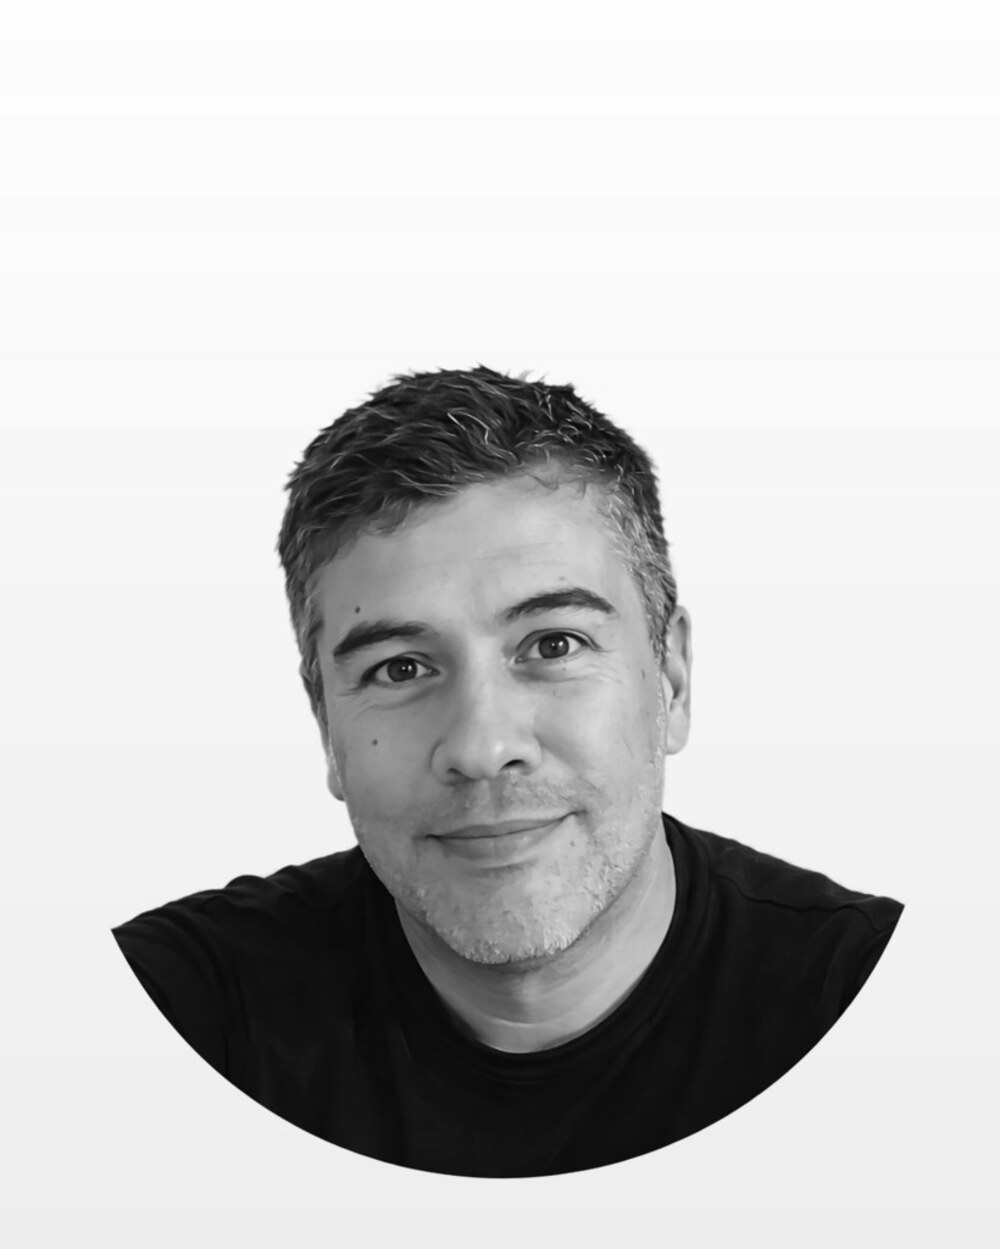
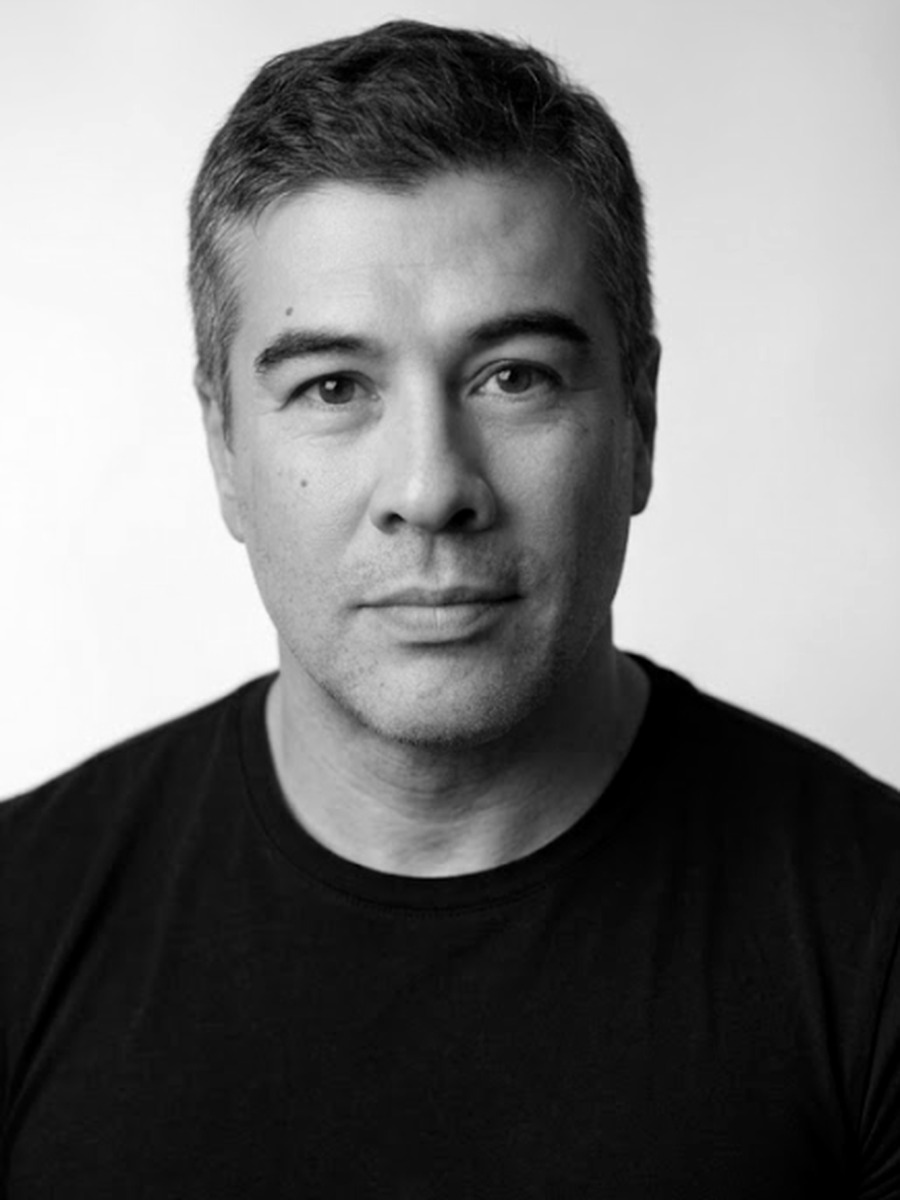
feat(design-v2): apply copy v2 (AI strategy mentor), real photos, Cal link
- Positioning: "AI strategy mentor"; nav = Workshops/Speaking/Mentoring/About
- Hero overline + subhead rewritten; Shift reframed to tools-vs-judgment
- Ways reordered 01 Workshops / 02 Speaking / 03 Mentoring + format micro-lines
- Proof: stage editorial split (caption + real speaking photo) + 3 named testimonials
- About: fixed "teams here" leftover, strategy-mentor framing
- Real photos: pro headshot (hero + b&w about), real-face speaking shot (stage)
- BOOK_LINK set to real Cal URL; index.html title/meta/OG updated

Spanish toggle + Talks block are pending follow-ups (English ships first).

diff --git a/src/App.jsx b/src/App.jsx
@@ -5,8 +5,8 @@ import { ArrowUpRight } from 'lucide-react';
 
 gsap.registerPlugin(ScrollTrigger);
 
-// Single source of truth for the booking link. Swap with the real Cal.com URL before merge.
-const BOOK_LINK = 'https://cal.com/REPLACE_ME';
+// Single source of truth for the booking link.
+const BOOK_LINK = 'https://cal.com/carlos-acuna/30min';
 const LINKEDIN = 'https://www.linkedin.com/in/carlosacunau/';
 const EMAIL = 'carlos@fibalabs.com';
 
@@ -88,8 +88,9 @@ const Navbar = () => {
           <img src="/logo.png" alt="Fiba Labs" className="h-12 w-auto" />
         </a>
         <div className="hidden md:flex items-center gap-10 text-sm text-muted">
-          <a href="#work" className="hover:text-text transition-colors">Ways to work</a>
-          <a href="#method" className="hover:text-text transition-colors">How I work</a>
+          <a href="#work" className="hover:text-text transition-colors">Workshops</a>
+          <a href="#proof" className="hover:text-text transition-colors">Speaking</a>
+          <a href="#work" className="hover:text-text transition-colors">Mentoring</a>
           <a href="#about" className="hover:text-text transition-colors">About</a>
         </div>
         <a href={BOOK_LINK} target="_blank" rel="noopener noreferrer" className="btn-magnetic px-5 py-2.5 rounded-full bg-accent text-background text-sm">
@@ -118,7 +119,7 @@ const Hero = () => {
         <div className="lg:col-span-7 space-y-8">
           <div className="hero-elem overline flex items-center gap-3">
             <span className="w-8 h-px bg-accent"></span>
-            AI mentoring for executives &amp; their teams
+            AI strategy mentor · Workshops · Speaking
           </div>
           <h1 className="display-serif text-text text-5xl md:text-7xl lg:text-[5.5rem]">
             <span className="hero-elem block">I make executives</span>
@@ -126,7 +127,7 @@ const Hero = () => {
             <span className="hero-elem block italic text-accent">AI-fluent.</span>
           </h1>
           <p className="hero-elem text-lg text-muted max-w-md leading-relaxed font-sans">
-            Your judgment is the part AI can't replace. I help leaders and their teams put it to work with AI, so the output stays yours and the work gets faster. Twenty-two years in enterprise, no hype.
+            Custom workshops, keynotes, and private mentoring, all built on your team's real work. Twenty-two years inside enterprise. No hype, no generic curriculum.
           </p>
           <div className="hero-elem flex flex-wrap items-center gap-6 pt-2">
             <a href={BOOK_LINK} target="_blank" rel="noopener noreferrer" className="btn-magnetic px-8 py-4 rounded-full bg-accent text-background text-base">
@@ -158,12 +159,12 @@ const Shift = () => {
   return (
     <section ref={ref} id="shift" className="px-6 md:px-12 py-24 md:py-32 bg-surface">
       <div className="max-w-4xl mx-auto text-center space-y-8">
-        <p className="reveal overline">The problem with most AI training</p>
+        <p className="reveal overline">Why another AI training won't fix it</p>
         <h2 className="reveal display-serif text-3xl md:text-5xl text-text leading-tight">
-          It teaches tools and prompts. A month later, <span className="italic text-accent">nobody uses any of it.</span>
+          Everyone bought the tools. Almost nobody <span className="italic text-accent">changed how they work.</span>
         </h2>
         <p className="reveal text-lg text-muted max-w-2xl mx-auto leading-relaxed font-sans">
-          I start from the work your team already does, not a generic curriculum. Everyone leaves with something they built, and the judgment to keep using it.
+          Generic training teaches prompts and demos, and a month later nobody uses any of it. The gap was never the tool. It's judgment: knowing what to hand to AI, what to keep, and how to tell good output from plausible output. I start from the work your team already does, and everyone leaves with something they built.
         </p>
       </div>
     </section>
@@ -175,20 +176,23 @@ const ways = [
   {
     num: '01',
     label: 'Workshops',
-    title: 'Your team leaves with something they built.',
-    desc: "Hands-on sessions for a team or a leadership group. We take a process you run every week and walk out with an assistant or workflow that handles it. Not slides about AI, the actual thing, working.",
+    format: 'Half-day to multi-week · your team, your cases · in person or remote',
+    title: "Built on your team's real work, not a curriculum.",
+    desc: "Custom mentoring workshops for a team or a leadership group. We take a process you run every week and walk out with an assistant or a workflow that handles it. Not slides about AI: the actual thing, working, in your company's vocabulary. Formats range from a half-day intensive to a multi-week program.",
   },
   {
     num: '02',
-    label: '1:1 Mentoring',
-    title: 'For the leader who wants to get genuinely good.',
-    desc: "A few weeks on your real cases, not a curriculum. We work them until the output stops sounding like AI and starts sounding like you. You leave with your own assistants built and the judgment to keep going.",
+    label: 'Speaking',
+    format: 'Keynotes · conference workshops · leadership offsites',
+    title: 'A talk the room is still using a month later.',
+    desc: "Keynotes and hands-on conference sessions, in person or remote, in English or Spanish. I don't do tool demos or hype tours. I give leaders a way to think about AI they can defend in their next board conversation, and when the format allows, everyone builds something with their own case before leaving the room.",
   },
   {
     num: '03',
-    label: 'Speaking',
-    title: 'A talk where the room actually uses it.',
-    desc: "Keynotes and live workshops for events and offsites, in person or remote. Your audience doesn't just hear about AI. Each person makes something with their own case before they leave.",
+    label: 'Private mentoring',
+    format: '1:1 · a few weeks · your real cases',
+    title: 'For the leader who wants to get genuinely good.',
+    desc: "A few weeks working your real cases, not a curriculum. We work them until the output stops sounding like AI and starts sounding like you. You leave with your own assistants built and the judgment to keep going without me.",
   },
 ];
 
@@ -211,7 +215,8 @@ const Ways = () => {
                 <span className="overline pt-1">{w.label}</span>
               </div>
               <div className="md:col-span-9">
-                <h3 className="font-drama text-2xl md:text-3xl text-text mb-3 leading-snug">{w.title}</h3>
+                <h3 className="font-drama text-2xl md:text-3xl text-text mb-2 leading-snug">{w.title}</h3>
+                <p className="font-mono text-xs text-accent/80 mb-3 tracking-wide">{w.format}</p>
                 <p className="text-muted leading-relaxed font-sans max-w-2xl">{w.desc}</p>
               </div>
             </div>
@@ -274,25 +279,54 @@ const Method = () => {
   );
 };
 
-// --- PROOF (full-bleed stage photo + floating logos) ---
+// --- PROOF (stage editorial split + testimonials + logos) ---
+const quotes = [
+  {
+    text: "Carlos built us an order system that just runs. What used to be manual every day now handles itself, and we get a clean summary without lifting a finger.",
+    attr: 'Onyx Armor · custom body armor',
+  },
+  {
+    text: "We greenlit it on the first call, no hesitation. Carlos gave us an outbound engine we actually own, not a black box we'd depend on him for.",
+    attr: 'Nadav Dabas · CEO, Dots Eco',
+  },
+  {
+    text: "For the first time the AI actually read my real drawings instead of inventing something off-scale. Carlos taught us to plug it into the tools we already use every day.",
+    attr: 'Stefano Bedín · BMAA architecture studio',
+  },
+];
+
 const Proof = () => {
   const ref = useReveal();
   const logos = ['IBM', 'Oracle', 'Red Hat', 'Trellix', 'Vertiv', 'Remote.com'];
   return (
     <section ref={ref} id="proof" className="py-24 md:py-32">
-      {/* Stage photo band */}
+      {/* Stage editorial split: caption left, real speaking photo right */}
       <div className="reveal max-w-6xl mx-auto px-6 md:px-12">
-        <div className="relative rounded-2xl overflow-hidden aspect-[21/9]">
-          <Photo
-            src="/stage.jpg"
-            alt="Carlos Acuña speaking"
-            label="[ on-stage speaking photo ]"
-            className="absolute inset-0 rounded-2xl border-0"
-          />
-          <div className="absolute bottom-0 left-0 right-0 p-6 md:p-8 bg-gradient-to-t from-black/60 to-transparent z-10">
-            <p className="text-white font-sans font-medium">On stage · corporate events and leadership offsites</p>
+        <div className="rounded-2xl border border-line bg-gradient-to-br from-background to-surface overflow-hidden flex flex-col md:flex-row items-center gap-8 md:gap-4 p-8 md:p-12">
+          <div className="flex-1 space-y-4 text-center md:text-left">
+            <p className="overline">On stage</p>
+            <h3 className="display-serif text-2xl md:text-4xl text-text leading-tight">Keynotes and hands-on workshops that a room keeps using.</h3>
+            <p className="text-muted font-sans leading-relaxed max-w-md mx-auto md:mx-0">Corporate events and leadership offsites, in person or remote, in English or Spanish.</p>
+          </div>
+          <div className="w-2/3 max-w-[240px] md:w-auto md:h-[340px] shrink-0">
+            <Photo
+              src="/stage.jpg"
+              alt="Carlos Acuña speaking"
+              label="[ speaking photo ]"
+              className="rounded-2xl aspect-[3/5] md:h-full md:aspect-auto shadow-xl"
+            />
           </div>
         </div>
+      </div>
+
+      {/* Testimonials */}
+      <div className="reveal max-w-6xl mx-auto px-6 md:px-12 mt-12 grid grid-cols-1 md:grid-cols-3 gap-6">
+        {quotes.map((q) => (
+          <figure key={q.attr} className="border border-line rounded-2xl p-7 bg-surface flex flex-col justify-between">
+            <blockquote className="text-text font-sans leading-relaxed text-[15px]">"{q.text}"</blockquote>
+            <figcaption className="overline mt-6 not-italic">{q.attr}</figcaption>
+          </figure>
+        ))}
       </div>
 
       {/* Logos */}
@@ -326,13 +360,13 @@ const About = () => {
         <div className="lg:col-span-7 space-y-6">
           <p className="reveal overline">About</p>
           <blockquote className="reveal display-serif text-3xl md:text-4xl text-text border-l-2 border-accent pl-6 leading-tight">
-            Twenty-two years inside enterprise. Now I help leaders use the next wave of it.
+            Twenty-two years inside enterprise. Now I mentor the leaders navigating what comes next.
           </blockquote>
           <p className="reveal text-muted leading-relaxed font-sans">
             I'm Carlos Acuña, founder of Fiba Labs. Two decades across IBM, Oracle, Red Hat, Trellix, Vertiv and Remote.com, in sales, channel and customer success throughout Latin America. Dual MBA, engineering background, and a long habit of being in the room where the decision gets made.
           </p>
           <p className="reveal text-muted leading-relaxed font-sans">
-            What that taught me: the problem is never the tool. It's whether people have the judgment and the habit to use it well. That's what I mentor. I don't adapt frameworks from somewhere else. I build them for how teams here actually work.
+            What that taught me: the problem is never the tool. It's whether people have the judgment and the habit to use it well. That's what I mentor. Not a framework adapted from somewhere else, but strategy and fluency built around how your team actually works.
           </p>
         </div>
       </div>
@@ -347,7 +381,7 @@ const FinalCTA = () => {
       <div className="max-w-2xl mx-auto space-y-8">
         <h2 className="display-serif text-4xl md:text-6xl">Where do we start?</h2>
         <p className="text-background/80 text-lg font-sans leading-relaxed">
-          Thirty minutes. No pitch. We work out whether this makes sense for you or your team, and what to do first.
+          Thirty minutes, no pitch. We work out whether this makes sense for you, your team, or your event, and what to do first.
         </p>
         <div className="flex flex-wrap justify-center gap-4 pt-2">
           <a href={BOOK_LINK} target="_blank" rel="noopener noreferrer" className="btn-magnetic px-10 py-4 rounded-full bg-background text-text text-base">
@@ -371,15 +405,15 @@ const Footer = () => {
         <div className="md:col-span-2">
           <img src="/logo.png" alt="Fiba Labs" className="h-12 w-auto mb-6" />
           <p className="text-muted max-w-sm text-sm leading-relaxed font-sans">
-            AI mentoring for executives and their teams. I help your people use AI without losing the judgment that made them good. Working with leaders across the Americas, in person and remote.
+            AI strategy mentor for executives and their teams. Custom workshops, keynotes, and private mentoring, built on real work. Across the Americas, in person and remote.
           </p>
         </div>
         <div>
           <h4 className="overline mb-6">Explore</h4>
           <ul className="space-y-3 text-sm text-muted font-sans">
-            <li><a href="#work" className="hover:text-text transition-colors">Ways to work</a></li>
-            <li><a href="#method" className="hover:text-text transition-colors">How I work</a></li>
-            <li><a href="#proof" className="hover:text-text transition-colors">Where I've worked</a></li>
+            <li><a href="#work" className="hover:text-text transition-colors">Workshops</a></li>
+            <li><a href="#proof" className="hover:text-text transition-colors">Speaking</a></li>
+            <li><a href="#work" className="hover:text-text transition-colors">Mentoring</a></li>
             <li><a href="#about" className="hover:text-text transition-colors">About</a></li>
           </ul>
         </div>

diff --git a/index.html b/index.html
@@ -5,9 +5,9 @@
     <link rel="icon" href="/favicon.ico" sizes="any" />
     <link rel="icon" type="image/png" href="/logo_icon.png" />
     <meta name="viewport" content="width=device-width, initial-scale=1.0" />
-    <meta name="description" content="AI mentoring for executives and their teams. I help your people use AI without losing the judgment that made them good. Workshops, 1:1 mentoring and talks across Chile and LATAM." />
-    <meta property="og:title" content="FIBA Labs | AI Mentoring for Executives & Their Teams" />
-    <meta property="og:description" content="I make executives and their teams AI-fluent. Workshops, 1:1 mentoring and speaking across Chile and LATAM." />
+    <meta name="description" content="AI strategy mentor for executives and their teams. Custom mentoring workshops, keynotes, and private mentoring built on your real work. 22 years inside enterprise: IBM, Oracle, Red Hat." />
+    <meta property="og:title" content="Carlos Acuña · AI Strategy Mentor | Workshops & Speaking | Fiba Labs" />
+    <meta property="og:description" content="AI strategy mentor for executives and their teams. Custom workshops, keynotes, and private mentoring built on your real work. 22 years inside enterprise." />
     <meta property="og:type" content="website" />
     <meta property="og:url" content="https://fibalabs.com" />
 
@@ -15,7 +15,7 @@
     <link rel="preconnect" href="https://fonts.gstatic.com" crossorigin>
     <link href="https://fonts.googleapis.com/css2?family=Newsreader:ital,opsz,wght@0,6..72,400;0,6..72,500;0,6..72,600;1,6..72,400;1,6..72,500&family=DM+Sans:wght@400;500;600;700&family=Fira+Code:wght@400;500&display=swap" rel="stylesheet">
     
-    <title>FIBA Labs | AI Mentoring for Executives & Their Teams</title>
+    <title>Carlos Acuña · AI Strategy Mentor | Workshops & Speaking | Fiba Labs</title>
   </head>
   <body class="bg-[#FAFAF5] text-[#2A2825] font-sans antialiased overflow-x-hidden selection:bg-[#5B4278]/20">
     <div id="root"></div>
